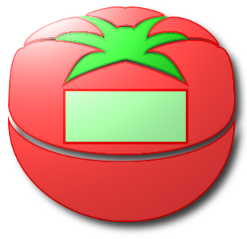
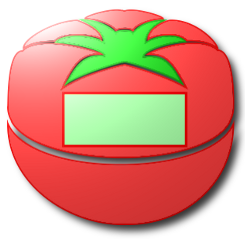
added nimbus theme

Changed region(s): [[0.0283, 0.0, 0.9919, 0.9958], [0.9069, 0.6736, 0.9352, 0.7029]]

diff --git a/src/main/java/org/mypomodoro/gui/preferences/PreferencesInputForm.java b/src/main/java/org/mypomodoro/gui/preferences/PreferencesInputForm.java
@@ -31,6 +31,7 @@ import javax.swing.JComboBox;
 import javax.swing.JList;
 import javax.swing.JPanel;
 import javax.swing.UIManager;
+import javax.swing.UIManager.LookAndFeelInfo;
 import javax.swing.border.EtchedBorder;
 import javax.swing.border.TitledBorder;
 import org.mypomodoro.Main;
@@ -285,20 +286,19 @@ public class PreferencesInputForm extends JPanel {
         }
         themes.add(UIManager.getCrossPlatformLookAndFeelClassName()); // Metal
         /*for (LookAndFeelInfo info : UIManager.getInstalledLookAndFeels()) {
-            System.err.println("theme = " + info.getName());
-        }*/
-        /* Nimbus laf doesn't work well with mAP
-         try {
-         for (LookAndFeelInfo info : UIManager.getInstalledLookAndFeels()) {
-        
-         if ("Nimbus".equals(info.getName())) {
-         themes.add(info.getClassName());
-         break;
-         }
-         }
-         } catch (Exception ignored) {
-         // Nimbus is not available
+         System.err.println("theme = " + info.getClassName());
          }*/
+        try {
+            for (LookAndFeelInfo info : UIManager.getInstalledLookAndFeels()) {
+
+                if ("Nimbus".equals(info.getName())) {
+                    themes.add(info.getClassName()); // Nimbus
+                    break;
+                }
+            }
+        } catch (Exception ignored) {
+            // Nimbus not available
+        }
         themes.add("com.nilo.plaf.nimrod.NimRODLookAndFeel"); // NimROD
         themes.add("com.jgoodies.looks.plastic.Plastic3DLookAndFeel"); // JGoodies  
         themes.add("com.pagosoft.plaf.PgsLookAndFeel"); // Pgs

diff --git a/src/main/java/org/mypomodoro/util/TransparentButton.java b/src/main/java/org/mypomodoro/util/TransparentButton.java
@@ -74,6 +74,7 @@ public class TransparentButton extends JButton {
             // must be setOpaque(true) to make the button opaque with some look adn feel and Win XP classic theme            
             if (!Main.preferences.getTheme().equalsIgnoreCase("com.alee.laf.WebLookAndFeel")
                     && !Main.preferences.getTheme().equalsIgnoreCase("com.seaglasslookandfeel.SeaGlassLookAndFeel")
+                    && !Main.preferences.getTheme().equalsIgnoreCase("com.sun.java.swing.plaf.nimbus.NimbusLookAndFeel")
                     && (CheckWindowsClassicTheme.isWindowsClassicLAF()
                     || !UIManager.getLookAndFeel().getClass().getName().equals(UIManager.getSystemLookAndFeelClassName()))) {
                 setOpaque(true);

diff --git a/src/main/java/org/mypomodoro/gui/todo/ToDoPanel.java b/src/main/java/org/mypomodoro/gui/todo/ToDoPanel.java
@@ -1231,8 +1231,8 @@ public class ToDoPanel extends JPanel implements IListPanel {
          });*/
         // set minimum and preferred sizes so that the size of the image
         // does not affect the layout size
-        pomodoroButton.setPreferredSize(new Dimension(250, 240));
-        pomodoroButton.setMinimumSize(new Dimension(250, 240));
+        pomodoroButton.setPreferredSize(new Dimension(247, 239));
+        pomodoroButton.setMinimumSize(new Dimension(247, 239));
 
         pomodoroButton.setVerticalAlignment(verticalAlignment);
         pomodoroButton.setHorizontalAlignment(horizontalAlignment);
